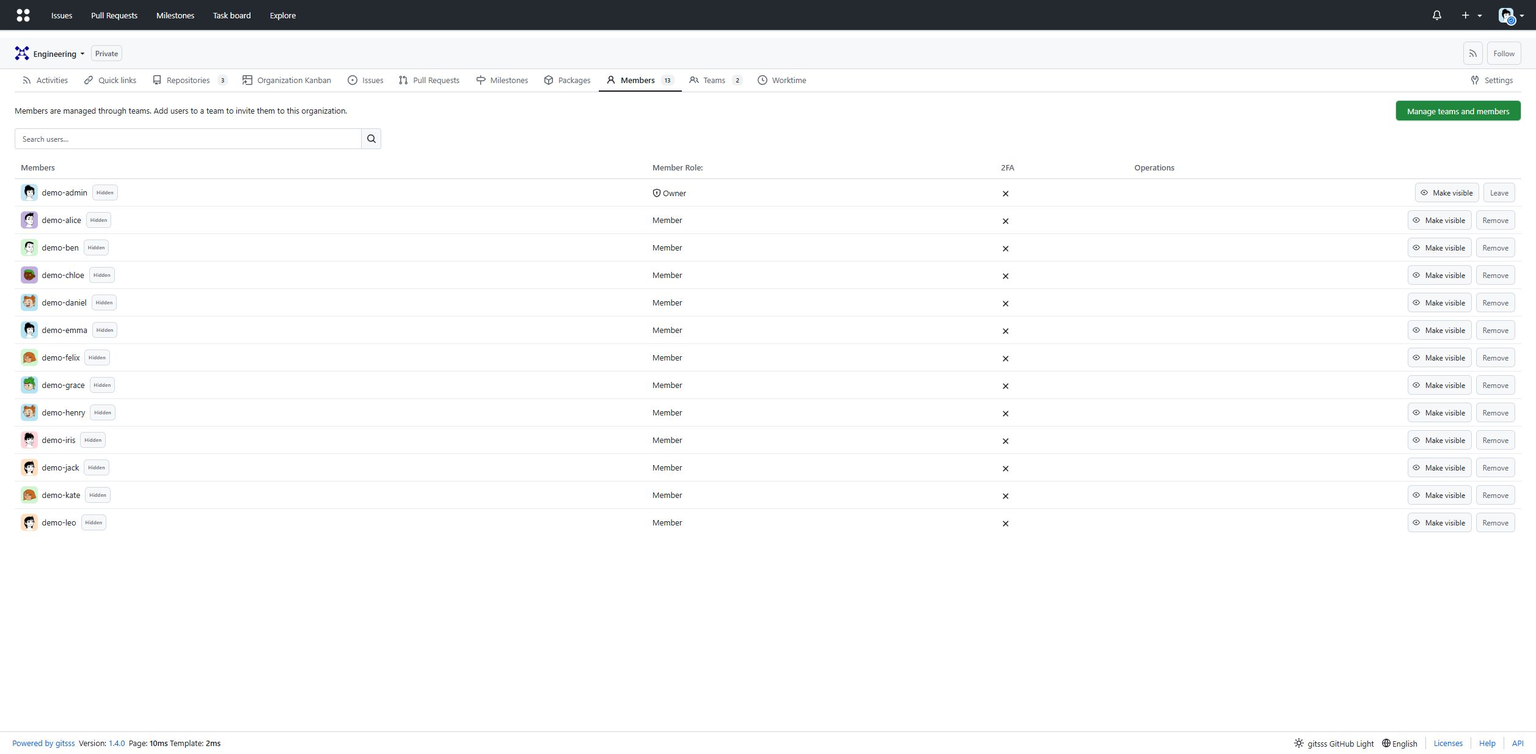
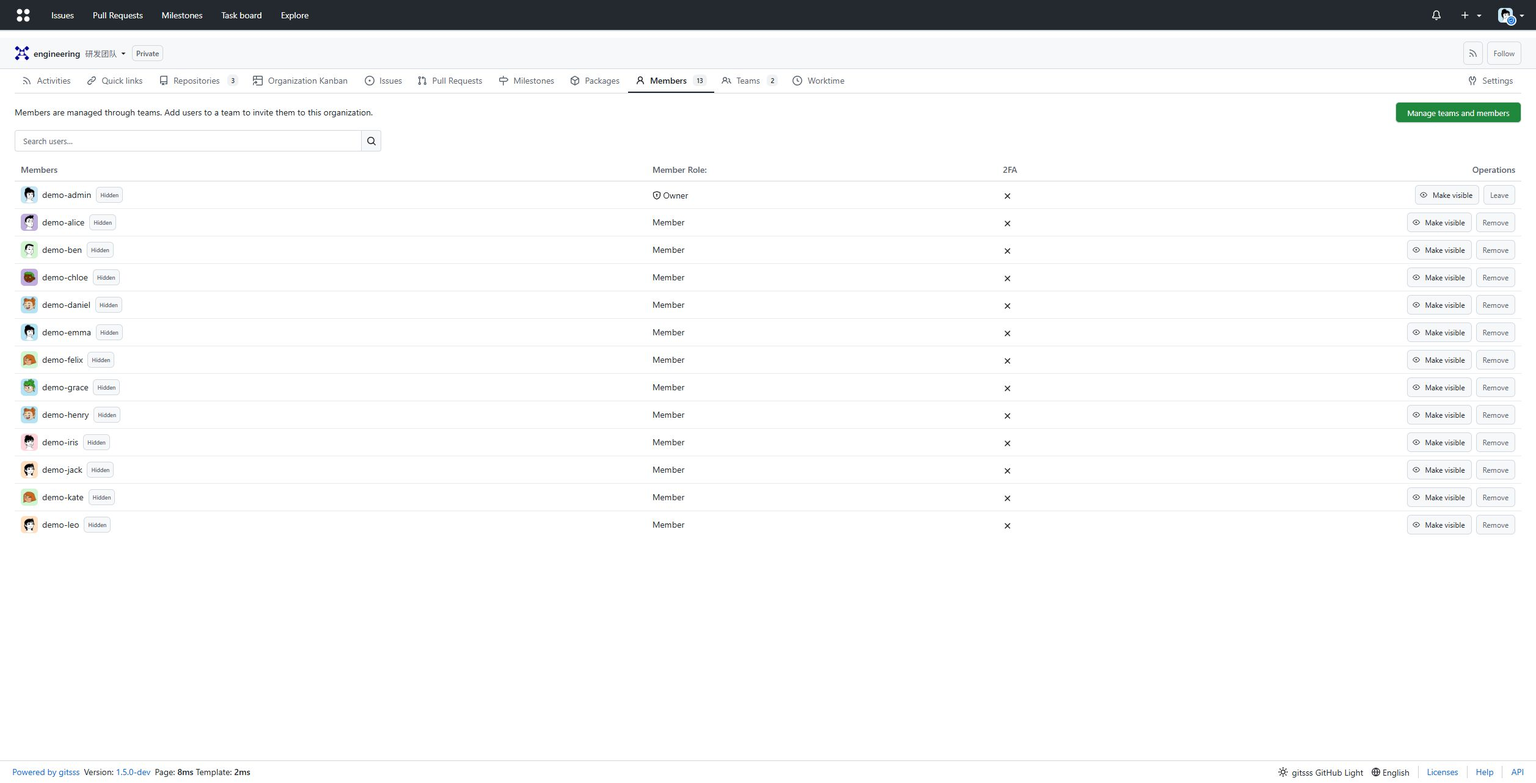
fix(ui): unify desktop workspace and readable administration
Assisted-by: Codex:GPT-6

diff --git a/docs/site/enterprise.html b/docs/site/enterprise.html
@@ -49,4 +49,4 @@
     </aside>
 
     <main class="content"><h1>企业内网与组织</h1><p>GitSSS 服务于企业研发。新安装默认绑定 <code>0.0.0.0:5030</code>，关闭自主注册并要求登录，显式已有设置优先。</p><h2>组织首页</h2><p>首页列出当前用户有权访问的组织；选择组织后进入组织仓库与权限组。个人工作台保留在 <code>/?view=personal</code>。</p><h2>权限组显示名称</h2><p>权限组设置可修改显示名称（包括 Owners），API 字段为 <code>display_name</code>。清空后显示原名称。稳定 ID、name、lower_name、URL 与授权不变；显示名称只用于备注。扩展使用独立的 gitsss_schema_version，保留上游数据库版本 343 与原始数据，不移动任何 Git/LFS 文件。</p><h2>并行迁移与回退</h2><p>先保留 Gitea 3000 与 GitSSS 5030。试运行关闭内置 Runner 与定时任务，不连接生产 Runner；正式切换等待管理员通知。仅 HTTP 导入不能保留密码、SSH/API/Runner 凭据、Actions 历史与 Webhook 状态，使用这些功能的源站必须在最终窗口执行原生数据库与数据接管。两套服务不能共用可写数据库或仓库。</p><p>升级前备份数据库。1.26 基线的旧 GitSSS 无法读取 343 数据库，回退必须同时恢复旧二进制和升级前数据库备份。详细命令与边界见 <a href="../operations/enterprise.md">企业运维说明</a>。</p><h2>原生兼容与运维</h2><p>已合并 Gitea 1.27.1 的 Actions attempt、可复用工作流、任务摘要、团队可见性与分支保护。历史 GitSSS 332 中被占用的上游迁移会自动修复；扩展不再占用上游编号。</p><p>程序内置 <code>/help/</code> 离线 HTML 说明书，默认英文。<code>tools/rehearse-native.py</code> 在独立 SQLite 副本比较所有原始表与列，不复制 Git/LFS，也不启动服务器。<code>tools/verify-git.py</code> 验证真实 Git、LFS、权限与 SSH；Actions 验证只在独立实例运行。<code>tools/agent-ops.py</code> 读取健康和任务状态，dispatch/rerun 需要 --apply。原生 JS Actions 需要 Git、Git LFS、Node.js。</p><p><a href="../operations/upstream-compatibility.md">兼容范围、容量与回退报告</a></p><h2>2026-10-16 验证记录</h2><p>独立数据库快照迁移保留全部 116 张原始表、列与记录 ID（343 → 343），耗时约 1.35 秒；原管理员 Token、组织与权限组可见性、4 个试点仓库、Runner ID 和 Actions 历史 API 均通过。4 个试点匹配 135 个源 refs。真实客户端验证覆盖 HTTP/SSH、LFS、权限、PR 合并和权限组备注；独立 Runner 通过 checkout、shell 与 artifact 上传。增量测试覆盖新增提交与 LFS、源分支删除、目标独立变更拒绝覆盖，以及无变化重跑缓存不增长。生产 Runner 和原 SSH 凭据的实际接管仍在最终窗口验收。</p><p>Windows 本地导入与恢复使用规范 file: URL；原绝对路径及本地导入权限检查保持有效，不移动存储。</p><h2>操作系统 SSH 与 Git SSH</h2><p>服务器的操作系统 SSH 账号、密码与 22 端口保持不变，与 GitSSS 默认 2222 的 Git SSH 监听独立。客户端连续提交多把 Agent 密钥可能耗尽单条连接的认证次数；密码登录可为该连接指定 <code>PreferredAuthentications=password</code> 与 <code>PubkeyAuthentication=no</code>，无需修改服务器策略或账号密码。</p><h2>语言自动识别与清晰文字</h2><p>默认根据浏览器传递的系统语言偏好自动选择界面语言，登录不会将自动识别结果永久保存为英文。页脚和“设置 → 外观”可选择自动或指定语言；已有明确语言偏好的账户可改回自动。页面 lang 与自定义 React 界面同步更新；新增词条提供中英文，其他语言未覆盖词条回退英文。浅色、深色主题分别使用各自的菜单文字与背景色，导航栏白字不会再污染下拉菜单，辅助文字和 Worker 标签更清晰。</p>
-<h2>单个组织全局看板</h2><p>点击组织导航的“组织全局看板”直接进入 <code>/{org}/-/kanban</code>，没有项目列表，也不需要创建仓库。待处理、进行中、已完成三列均可快速记任务，输入 <code>@用户名</code> 指派组织成员，拖动卡片或编辑状态。支持即时搜索、@指派人筛选、详细说明、编辑和删除。最多显示 500 条匹配卡片，超出时显示提示，可缩小范围后搜索存储中的任务。</p><p>仅组织成员与站点管理员可访问；受限访客除组织所有者外不可访问。成员可协作修改卡片，删除限创建者或组织所有者。指派人与所有增删改查均在服务端限定组织。仓库看板仍在 <code>/{org}/{repo}/projects</code>；旧组织项目 URL、字段及 Issue 关联保持兼容。新增卡片仅使用扩展版本 2 的 org_task 表，不创建 Git 仓库，不复制对象；回退旧扩展版本需恢复匹配的数据库备份。</p><h2 id="avatars">桌面布局与内置头像</h2><p>桌面主区域充分利用浏览器宽度，修复 Actions 搜索标签挤压、中文换行及主题对比度；个人设置表单保持适合阅读的宽度。移动端另行规划。设置 → 个人资料提供24 个现成 DiceBear Adventurer/Lorelei 头像，资源完全内置，无需外网；选择后复用现有头像处理与存储，也可上传图片，自动裁剪为方形、缩放并压缩，透明图片保持 PNG。新 GIF 上传使用首帧。作品由 Lisa Wischofsky 创作，Adventurer 为 <a href="https://creativecommons.org/licenses/by/4.0/">CC BY 4.0</a>，Lorelei 为 <a href="https://creativecommons.org/publicdomain/zero/1.0/">CC0</a>，通过 DiceBear 10.6.0 本地渲染。新个人账号自动头像使用稳定的内置选择，已有头像和组织头像保留。</p><h2>并行实例隔离</h2><p>试运行必须使用独立 HOME/USERPROFILE、SSH_ROOT_PATH，并关闭 SSH_CREATE_AUTHORIZED_KEYS_FILE 与 SSH_CREATE_AUTHORIZED_PRINCIPALS_FILE。禁用 SSH 的实例也不得重写系统授权文件。验收前后比较原授权文件哈希，并验证原 Runner 密钥和真实仓库读取。并行实例还必须设置不同的 session COOKIE_NAME、security COOKIE_REMEMBER_NAME 与 i18n COOKIE_NAME，避免同一主机不同端口共享登录 Cookie；最终原生接管恢复原站配置与凭据。试运行新增看板应在最终窗口导出并迁入，未核对前不得覆盖。</p><h2>统一组织工作台与搜索</h2><p>动态、仓库、全局看板及团队管理使用同一组织页头和导航；顶部工单、合并请求、里程碑及看板保留当前组织。切换组织尽量保留当前栏目。组织和团队下拉框支持按显示名称与稳定名称搜索。动态页切换团队时就地更新活动和仓库，保留仓库搜索与筛选，支持浏览器前进、后退。失败时保留当前内容。看板的快速添加、编辑、删除和服务端搜索均在原页面完成，失败保留草稿；原表单及 URL 继续兼容。</p><h2>首页快捷入口</h2><p>独立“快捷入口”Tab 支持多个公共入口与个人入口，名称和 URL 均可修改，添加、编辑、删除后原页保存。公共入口限站点管理员配置，个人入口只归当前登录用户管理。每组最多 32 项，名称最多 120 字符，URL 最多 2048 字节，仅支持 HTTP/HTTPS，禁止夹带账号密码。点击在新标签页打开服务，保留当前工作台。保存失败保留草稿，其他页面已保存时提示冲突，避免静默覆盖。桌面首页左右仅留 16px。</p><p>配置保存在现有 app_state 的 enterprise-home-links 和 personal-home-links-{userID}，不修改数据库结构及 Git/LFS 存储。产品不预置私有地址；在企业部署后配置。最终接管前导出试运行新增入口并核对用户 ID，回退使用匹配数据库备份。POST /home-links 使用正常会话和 CSRF 保护；详细字段见企业运维 Markdown。</p><h2>紧凑桌面与三栏动态</h2><p>动态页左侧是仓库与筛选，中间是活动，右侧是 CI/CD 和已发布公告。贡献记录默认折叠，快捷入口移到独立 Tab。默认界面字号 13px，页头和按钮收紧；成员以单行表格展示，头像为 28px。浏览器缩放由用户控制，不对页面做 transform 缩放。</p><h2>团队自动分配</h2><p>组织所有者进入“设置 → 团队自动分配”，用 Go/RE2 正则匹配仓库名称并选择多个团队。^server- 匹配前缀，-go$ 匹配后缀，(?i) 忽略大小写。可先预览已有仓库，再保存规则；为已有匹配仓库添加团队需要单独点击应用，重复应用不会重复授权。</p><p>启用的规则在新建、API、派生、模板生成、导入及转入组织时自动生效，多条规则取并集，权限沿用现有团队配置。修改备注名称不影响规则；停用、删除规则或重命名仓库不移除既有授权。删除团队会清理规则引用，新同名团队不会继承。Owners 与全部仓库团队沿用原默认权限。最多 32 条规则、每条正则 512 字节、64 个团队；跨组织团队、无效正则、非所有者操作及跨站写入均拒绝。并发编辑使用版本检查。</p><p>配置使用现有 app_state 的 org-repo-team-rules-{orgID}，无数据库结构或 Git/LFS 路径变更。最终接管前导出规则并核对组织与团队 ID；旧二进制忽略规则但保留已授权仓库。详见 <a href="../operations/enterprise.md">企业运维说明</a>。</p><p><img src="assets/screenshots/members.png" alt="Compact organization member table in a demonstration instance, 2026-10-16" style="max-width:100%;height:auto"></p></main></div></body></html>
+<h2>单个组织全局看板</h2><p>点击组织导航的“组织全局看板”直接进入 <code>/{org}/-/kanban</code>，没有项目列表，也不需要创建仓库。待处理、进行中、已完成三列均可快速记任务，输入 <code>@用户名</code> 指派组织成员，拖动卡片或编辑状态。支持即时搜索、@指派人筛选、详细说明、编辑和删除。最多显示 500 条匹配卡片，超出时显示提示，可缩小范围后搜索存储中的任务。</p><p>仅组织成员与站点管理员可访问；受限访客除组织所有者外不可访问。成员可协作修改卡片，删除限创建者或组织所有者。指派人与所有增删改查均在服务端限定组织。仓库看板仍在 <code>/{org}/{repo}/projects</code>；旧组织项目 URL、字段及 Issue 关联保持兼容。新增卡片仅使用扩展版本 2 的 org_task 表，不创建 Git 仓库，不复制对象；回退旧扩展版本需恢复匹配的数据库备份。</p><h2 id="avatars">桌面布局与内置头像</h2><p>桌面主区域充分利用浏览器宽度，修复 Actions 搜索标签挤压、中文换行及主题对比度；个人设置表单保持适合阅读的宽度。移动端另行规划。设置 → 个人资料提供24 个现成 DiceBear Adventurer/Lorelei 头像，资源完全内置，无需外网；选择后复用现有头像处理与存储，也可上传图片，自动裁剪为方形、缩放并压缩，透明图片保持 PNG。新 GIF 上传使用首帧。作品由 Lisa Wischofsky 创作，Adventurer 为 <a href="https://creativecommons.org/licenses/by/4.0/">CC BY 4.0</a>，Lorelei 为 <a href="https://creativecommons.org/publicdomain/zero/1.0/">CC0</a>，通过 DiceBear 10.6.0 本地渲染。新个人账号自动头像使用稳定的内置选择，已有头像和组织头像保留。</p><h2>并行实例隔离</h2><p>试运行必须使用独立 HOME/USERPROFILE、SSH_ROOT_PATH，并关闭 SSH_CREATE_AUTHORIZED_KEYS_FILE 与 SSH_CREATE_AUTHORIZED_PRINCIPALS_FILE。禁用 SSH 的实例也不得重写系统授权文件。验收前后比较原授权文件哈希，并验证原 Runner 密钥和真实仓库读取。并行实例还必须设置不同的 session COOKIE_NAME、security COOKIE_REMEMBER_NAME 与 i18n COOKIE_NAME，避免同一主机不同端口共享登录 Cookie；最终原生接管恢复原站配置与凭据。试运行新增看板应在最终窗口导出并迁入，未核对前不得覆盖。</p><h2>统一组织工作台与搜索</h2><p>动态、仓库、全局看板及团队管理使用同一组织页头和导航；顶部工单、合并请求、里程碑及看板保留当前组织。切换组织尽量保留当前栏目。组织和团队下拉框支持按显示名称与稳定名称搜索。动态页切换团队时就地更新活动和仓库，保留仓库搜索与筛选，支持浏览器前进、后退。失败时保留当前内容。看板的快速添加、编辑、删除和服务端搜索均在原页面完成，失败保留草稿；原表单及 URL 继续兼容。</p><h2>首页快捷入口</h2><p>独立“快捷入口”Tab 支持多个公共入口与个人入口，名称和 URL 均可修改，添加、编辑、删除后原页保存。公共入口限站点管理员配置，个人入口只归当前登录用户管理。每组最多 32 项，名称最多 120 字符，URL 最多 2048 字节，仅支持 HTTP/HTTPS，禁止夹带账号密码。点击在新标签页打开服务，保留当前工作台。保存失败保留草稿，其他页面已保存时提示冲突，避免静默覆盖。桌面首页左右仅留 16px。</p><p>配置保存在现有 app_state 的 enterprise-home-links 和 personal-home-links-{userID}，不修改数据库结构及 Git/LFS 存储。产品不预置私有地址；在企业部署后配置。最终接管前导出试运行新增入口并核对用户 ID，回退使用匹配数据库备份。POST /home-links 使用正常会话和 CSRF 保护；详细字段见企业运维 Markdown。</p><h2>紧凑桌面与三栏动态</h2><p>动态页左侧是仓库与筛选，中间是活动，右侧是 CI/CD 和已发布公告。贡献记录默认折叠，快捷入口移到独立 Tab。默认界面字号 14px，页头和按钮收紧；成员以单行表格展示，头像为 28px。浏览器缩放由用户控制，不对页面做 transform 缩放。</p><h2>团队自动分配</h2><p>组织所有者进入“设置 → 团队自动分配”，用 Go/RE2 正则匹配仓库名称并选择多个团队。^server- 匹配前缀，-go$ 匹配后缀，(?i) 忽略大小写。可先预览已有仓库，再保存规则；为已有匹配仓库添加团队需要单独点击应用，重复应用不会重复授权。</p><p>启用的规则在新建、API、派生、模板生成、导入及转入组织时自动生效，多条规则取并集，权限沿用现有团队配置。修改备注名称不影响规则；停用、删除规则或重命名仓库不移除既有授权。删除团队会清理规则引用，新同名团队不会继承。Owners 与全部仓库团队沿用原默认权限。最多 32 条规则、每条正则 512 字节、64 个团队；跨组织团队、无效正则、非所有者操作及跨站写入均拒绝。并发编辑使用版本检查。</p><p>配置使用现有 app_state 的 org-repo-team-rules-{orgID}，无数据库结构或 Git/LFS 路径变更。最终接管前导出规则并核对组织与团队 ID；旧二进制忽略规则但保留已授权仓库。详见 <a href="../operations/enterprise.md">企业运维说明</a>。</p><p><img src="assets/screenshots/members.png" alt="Compact organization member table in a demonstration instance, 2026-10-16" style="max-width:100%;height:auto"></p><h2>统一桌面界面与组织备注</h2><p>组织同时显示稳定英文标识和不同的 full_name 备注，首页和组织切换器都能查看；首页支持按二者搜索，Escape 清空，无匹配时明确提示。备注在组织设置修改，不改变组织 ID、仓库路径、克隆地址和团队权限。试运行备注在接管前按组织名称导出和映射。</p><p>仓库代码、文件、工单、合并请求、Actions、看板、百科、发布和设置统一使用完整页面及导航，不再挂载额外的 API 界面层，也没有经典/新版切换。原 URL 和 classic=1 参数仍可访问同一页面，API 身份与权限要求保持不变。1200px 起显示可收起、可滚动的桌面导航，图标模式保留可访问名称。后台正文和表单为 14px，分组至少 13px、标题 16px，通过间距保持紧凑。回退替换旧二进制及其内置资源，不移动 Git/LFS 或数据库。</p><p>后台默认展开当前导航分组，其余分组可点击展开，导航栏独立滚动，不再把整页拉长。</p><p><img src="assets/screenshots/admin.png" alt="Readable administration in an isolated demonstration instance, 2026-10-16" style="max-width:100%;height:auto"></p></main></div></body></html>

diff --git a/docs/site/en/index.html b/docs/site/en/index.html
@@ -159,7 +159,7 @@ python3 tools/verify-git.py --url http://gitsss.example.internal:5030 --token-fi
 
       <hr>
       <p style="font-size:14px; color:var(--color-fg-muted);">GitSSS is licensed under <a href="https://github.com/neko233-com/gitsss/blob/main/LICENSE">MIT</a>. See the <a href="https://github.com/neko233-com/gitsss/blob/main/README.md">English README</a> or <a href="https://github.com/neko233-com/gitsss/blob/main/README_ZH.md">Chinese README</a>.</p>
-    <h2>Rehearsal evidence: 2026-10-16</h2><p>An independent SQLite snapshot retained all 116 original tables, columns and row IDs (343 to 343), taking about 1.35 seconds. Runtime checks accepted the original admin token, organization/team visibility, four pilot repositories, runner IDs and Actions metadata. Four pilots matched 135 source refs. Disposable real-client checks covered HTTP, SSH, LFS, permissions, pull-request merging and team labels; an isolated native runner completed checkout, shell and artifact upload. Delta checks covered new Git/LFS data, source branch deletion, refusal of independent destination changes and unchanged reruns without cache growth. Production runners and original SSH credentials remain cutover-window checks. Windows local restore paths use proper file: URLs while retaining permission checks and storage locations.</p><h2>Language, readable themes and organization Kanban</h2><p>The UI automatically follows the system/browser language supplied in Accept-Language. Login does not persist an automatically detected language as an account preference. The footer and Appearance settings offer Automatic and manual choices. Custom React views follow the page language with Chinese/English strings and English fallback. Light/dark dropdowns use their own text colors; secondary text and Worker captions are more readable. Organization cards open /{org}/-/kanban directly: one shared board, quick tasks, @member assignment, text search, assignee filters and drag-to-change status. No project creation or repository is required. Repository boards and legacy owner projects remain compatible. Only organization members and administrators can access shared cards; creator/owner deletion and same-organization assignment are enforced by the server. Up to 500 matching cards are rendered with a visible limit notice and server search. Extension schema 2 adds org_task without copying Git objects. Preserve trial cards and map organization/user IDs at final takeover; rollback to older binaries needs its database backup. Desktop layouts use the available width; Actions search no longer squeezes an exposed label into its input. Profile settings provide 24 locally embedded DiceBear Adventurer/Lorelei avatars; existing avatars are preserved. Custom uploads are automatically square-cropped, resized and compressed as suitable PNG/JPEG. Transparency stays PNG; GIF uploads use the first frame. Artwork: Lisa Wischofsky, Adventurer CC BY 4.0 and Lorelei CC0, locally rendered using DiceBear 10.6.0.</p><h2>Parallel instance isolation</h2><p>Use independent HOME/USERPROFILE and SSH_ROOT_PATH, disable both SSH_CREATE_AUTHORIZED_*_FILE flags, and compare the source authorization file hash before/after acceptance. Disabled SSH must never rewrite system authorization files. Configure distinct session COOKIE_NAME, security COOKIE_REMEMBER_NAME and i18n COOKIE_NAME on parallel instances to avoid cross-port login-cookie collisions. Retain original settings for final native takeover and export any new trial boards before that window.</p><p><code>tools/verify-enterprise.py</code> verifies shared-card permissions and avatar selection/upload with disposable private organizations and accounts, cleaning its own fixtures. Run it only against GitSSS evaluation instances.</p><h2>One organization workspace</h2><p>Activity, repositories, board and teams share the same compact header and navigation. Organization switching retains the workspace section, and organization/team menus support display-name and stable-name search. Team changes update activity and repositories in place while preserving repository search and filters, with Back/Forward support. Board creation, editing, deletion and server search stay on the same page; failed requests preserve drafts and current contents. Existing URLs and ordinary form submissions remain compatible.</p><h2>Homepage quick links</h2><p>A dedicated Quick links tab offers administrator-managed shared links and per-user personal links. Add, edit and remove multiple entries in place; destinations open in a new tab. Each list supports 32 links, a 120-character name and an HTTP/HTTPS URL up to 2048 bytes. Embedded credentials and other schemes are rejected. Failed saves preserve drafts; stale editors receive a conflict. Desktop dashboards use 16px side gutters.</p><p>Links use existing app-state keys enterprise-home-links and personal-home-links-{userID}; no schema or Git/LFS paths change. Private destinations are configured per installation. Export trial links before native takeover and map personal user IDs. See the <a href="../../operations/enterprise.md">enterprise operations guide</a> for session/CSRF-protected POST /home-links fields and rollback.</p><h2>Compact desktop workspace and automatic teams</h2><p>Activity has repositories on the left, the feed in the center, and CI/CD with published notices on the right. Contribution history starts collapsed; Quick links has its own tab. The default UI uses 13px text, compact headers/buttons and single-line member rows with 28px avatars, without changing browser zoom.</p><p>Organization owners open Settings → Automatic team assignment. Match repository names with Go/RE2 expressions such as ^server- or (?i)-go$, choose teams and preview existing matches. Enabled rules apply in creation/import/fork/template and organization transfer transactions. Matching rules are unioned using existing team permissions. Applying to existing repositories is explicit and repeatable. Disabling/deleting rules or renaming repositories never revokes existing grants. Stable team IDs survive display-name changes; team deletion removes references. Owners/all-repository teams keep their default access.</p><p>Limits: 32 rules, 512 bytes per expression, 64 teams per rule. Owner/CSRF checks, same-organization validation and stale revision checks are enforced. Rules use app_state key org-repo-team-rules-{orgID}; no schema or Git/LFS path changes. Export and map organization/team IDs before native takeover. Older binaries ignore rules and retain grants. See the <a href="../../operations/enterprise.md">operations guide</a>.</p><h2>Native Express233 upload</h2><p>Use the embedded <code>gitsss/express233-upload@v1</code> action with Node.js 24. Set server/project-id from Actions variables, token from a Secret, a unique version and workspace-relative path. No external action or npm installation is needed. It creates a fresh draft, streams files and produces a SHA256 input manifest. Existing versions are refused. Publication defaults to false; explicit publish=true may trigger receiver deployment hooks. Only failed file uploads retry; redirects and URL credentials are refused, TLS stays enabled and receiver error bodies are omitted. See <a href="../actions.html#express233">the HTML example</a> and <a href="../../operations/express233-upload.md">complete usage and recovery</a>.</p><p>For public releases, keep installation-specific identifiers outside Git and run the local <a href="../../operations/public-source.md">public-source hygiene check</a>. Historical rewrites require a verified private backup and explicit authorization; GitHub read-only PR refs/caches and old release binaries are separate cleanup boundaries.</p><p><img src="../assets/screenshots/members.png" alt="Compact organization member table in a demonstration instance, 2026-10-16" style="max-width:100%;height:auto"></p></main>
+    <h2>Rehearsal evidence: 2026-10-16</h2><p>An independent SQLite snapshot retained all 116 original tables, columns and row IDs (343 to 343), taking about 1.35 seconds. Runtime checks accepted the original admin token, organization/team visibility, four pilot repositories, runner IDs and Actions metadata. Four pilots matched 135 source refs. Disposable real-client checks covered HTTP, SSH, LFS, permissions, pull-request merging and team labels; an isolated native runner completed checkout, shell and artifact upload. Delta checks covered new Git/LFS data, source branch deletion, refusal of independent destination changes and unchanged reruns without cache growth. Production runners and original SSH credentials remain cutover-window checks. Windows local restore paths use proper file: URLs while retaining permission checks and storage locations.</p><h2>Language, readable themes and organization Kanban</h2><p>The UI automatically follows the system/browser language supplied in Accept-Language. Login does not persist an automatically detected language as an account preference. The footer and Appearance settings offer Automatic and manual choices. Custom React views follow the page language with Chinese/English strings and English fallback. Light/dark dropdowns use their own text colors; secondary text and Worker captions are more readable. Organization cards open /{org}/-/kanban directly: one shared board, quick tasks, @member assignment, text search, assignee filters and drag-to-change status. No project creation or repository is required. Repository boards and legacy owner projects remain compatible. Only organization members and administrators can access shared cards; creator/owner deletion and same-organization assignment are enforced by the server. Up to 500 matching cards are rendered with a visible limit notice and server search. Extension schema 2 adds org_task without copying Git objects. Preserve trial cards and map organization/user IDs at final takeover; rollback to older binaries needs its database backup. Desktop layouts use the available width; Actions search no longer squeezes an exposed label into its input. Profile settings provide 24 locally embedded DiceBear Adventurer/Lorelei avatars; existing avatars are preserved. Custom uploads are automatically square-cropped, resized and compressed as suitable PNG/JPEG. Transparency stays PNG; GIF uploads use the first frame. Artwork: Lisa Wischofsky, Adventurer CC BY 4.0 and Lorelei CC0, locally rendered using DiceBear 10.6.0.</p><h2>Parallel instance isolation</h2><p>Use independent HOME/USERPROFILE and SSH_ROOT_PATH, disable both SSH_CREATE_AUTHORIZED_*_FILE flags, and compare the source authorization file hash before/after acceptance. Disabled SSH must never rewrite system authorization files. Configure distinct session COOKIE_NAME, security COOKIE_REMEMBER_NAME and i18n COOKIE_NAME on parallel instances to avoid cross-port login-cookie collisions. Retain original settings for final native takeover and export any new trial boards before that window.</p><p><code>tools/verify-enterprise.py</code> verifies shared-card permissions and avatar selection/upload with disposable private organizations and accounts, cleaning its own fixtures. Run it only against GitSSS evaluation instances.</p><h2>One organization workspace</h2><p>Activity, repositories, board and teams share the same compact header and navigation. Organization switching retains the workspace section, and organization/team menus support display-name and stable-name search. Team changes update activity and repositories in place while preserving repository search and filters, with Back/Forward support. Board creation, editing, deletion and server search stay on the same page; failed requests preserve drafts and current contents. Existing URLs and ordinary form submissions remain compatible.</p><h2>Homepage quick links</h2><p>A dedicated Quick links tab offers administrator-managed shared links and per-user personal links. Add, edit and remove multiple entries in place; destinations open in a new tab. Each list supports 32 links, a 120-character name and an HTTP/HTTPS URL up to 2048 bytes. Embedded credentials and other schemes are rejected. Failed saves preserve drafts; stale editors receive a conflict. Desktop dashboards use 16px side gutters.</p><p>Links use existing app-state keys enterprise-home-links and personal-home-links-{userID}; no schema or Git/LFS paths change. Private destinations are configured per installation. Export trial links before native takeover and map personal user IDs. See the <a href="../../operations/enterprise.md">enterprise operations guide</a> for session/CSRF-protected POST /home-links fields and rollback.</p><h2>Compact desktop workspace and automatic teams</h2><p>Activity has repositories on the left, the feed in the center, and CI/CD with published notices on the right. Contribution history starts collapsed; Quick links has its own tab. The default UI uses 14px text, compact headers/buttons and single-line member rows with 28px avatars, without changing browser zoom.</p><p>Organization owners open Settings → Automatic team assignment. Match repository names with Go/RE2 expressions such as ^server- or (?i)-go$, choose teams and preview existing matches. Enabled rules apply in creation/import/fork/template and organization transfer transactions. Matching rules are unioned using existing team permissions. Applying to existing repositories is explicit and repeatable. Disabling/deleting rules or renaming repositories never revokes existing grants. Stable team IDs survive display-name changes; team deletion removes references. Owners/all-repository teams keep their default access.</p><p>Limits: 32 rules, 512 bytes per expression, 64 teams per rule. Owner/CSRF checks, same-organization validation and stale revision checks are enforced. Rules use app_state key org-repo-team-rules-{orgID}; no schema or Git/LFS path changes. Export and map organization/team IDs before native takeover. Older binaries ignore rules and retain grants. See the <a href="../../operations/enterprise.md">operations guide</a>.</p><h2>Native Express233 upload</h2><p>Use the embedded <code>gitsss/express233-upload@v1</code> action with Node.js 24. Set server/project-id from Actions variables, token from a Secret, a unique version and workspace-relative path. No external action or npm installation is needed. It creates a fresh draft, streams files and produces a SHA256 input manifest. Existing versions are refused. Publication defaults to false; explicit publish=true may trigger receiver deployment hooks. Only failed file uploads retry; redirects and URL credentials are refused, TLS stays enabled and receiver error bodies are omitted. See <a href="../actions.html#express233">the HTML example</a> and <a href="../../operations/express233-upload.md">complete usage and recovery</a>.</p><p>For public releases, keep installation-specific identifiers outside Git and run the local <a href="../../operations/public-source.md">public-source hygiene check</a>. Historical rewrites require a verified private backup and explicit authorization; GitHub read-only PR refs/caches and old release binaries are separate cleanup boundaries.</p><p><img src="../assets/screenshots/members.png" alt="Compact organization member table in a demonstration instance, 2026-10-16" style="max-width:100%;height:auto"></p><h2>One desktop interface and organization notes</h2><p>Organizations show the stable identifier and a distinct full_name note together. The homepage directory searches both, Escape clears the filter, and empty results have an explicit message. Edit the note in organization settings without changing IDs, clone URLs, repository paths or team access. Export trial organization notes and map them by name before native takeover.</p><p>Repository code, files, issues, pull requests, Actions, boards, wiki, releases and settings share the complete server-rendered interface. The experimental API overlay no longer hides it and there is no classic/new switch. Existing URLs and classic=1 show the same page; API authorization is unchanged. From 1200px the desktop rail can scroll or collapse while retaining accessible link labels. Administration uses 14px text/forms, 13px section labels and 16px headings. Roll back the binary and its embedded assets; Git/LFS and database paths remain unchanged.</p><p>The current administration group starts expanded; other groups can be opened on demand and the navigation rail scrolls independently.</p><p><img src="../assets/screenshots/admin.png" alt="Readable administration in an isolated demonstration instance, 2026-10-16" style="max-width:100%;height:auto"></p></main>
   </div>
 </body>
 </html>

diff --git a/web_src/css/admin.css b/web_src/css/admin.css
@@ -59,7 +59,7 @@
   justify-content: space-between;
   gap: 1rem;
   color: var(--color-text-light);
-  font-size: 0.875rem;
+  font-size: 13px;
 }
 
 .storage-capacity-progress-label strong {
@@ -73,7 +73,7 @@
 
 .storage-capacity-progress-detail {
   color: var(--color-text-light-2);
-  font-size: 0.8125rem;
+  font-size: 13px;
 }
 
 .storage-capacity-chart {
@@ -126,8 +126,8 @@
 .admin-sidebar-menu {
   overflow: hidden;
   border: 1px solid var(--color-light-border);
-  border-radius: 10px;
-  box-shadow: 0 8px 24px var(--color-shadow);
+  border-radius: 6px;
+  box-shadow: none;
 }
 
 .admin-sidebar-heading {
@@ -135,7 +135,7 @@
   border-bottom: 1px solid var(--color-light-border) !important;
   background: var(--color-menu) !important;
   color: var(--color-text) !important;
-  font-size: 0.95rem;
+  font-size: 15px;
   font-weight: var(--font-weight-semibold) !important;
 }
 
@@ -150,11 +150,10 @@
 
 .admin-sidebar-menu details > summary {
   padding: 0.72rem 1rem;
-  color: var(--color-text-light);
-  font-size: 0.78rem;
+  color: var(--color-text-light-2);
+  font-size: 13px;
   font-weight: var(--font-weight-semibold);
-  letter-spacing: 0.04em;
-  text-transform: uppercase;
+  letter-spacing: normal;
 }
 
 .admin-sidebar-menu details > summary:hover,
@@ -171,7 +170,24 @@
 .admin-sidebar-menu details > .menu .item,
 .admin-sidebar-menu > .item:not(.admin-sidebar-heading) {
   border-radius: 6px;
+  font-size: 14px;
+  line-height: 20px;
+  padding: 8px 10px;
 }
+
+.page-content.admin .flex-container-nav { flex: 0 0 230px; }
+.page-content.admin .admin-sidebar-nav { position: sticky; top: 64px; align-self: flex-start; max-height: calc(100vh - 80px); overflow-y: auto; overscroll-behavior: contain; }
+.page-content.admin .ui.menu.admin-sidebar-menu .menu .item { padding: 6px 10px; font-size: 14px; line-height: 20px; }
+.page-content.admin .flex-container-main { font-size: 14px; line-height: 1.6; }
+.page-content.admin .ui.header { font-size: 16px; }
+.page-content.admin .ui.form input,
+.page-content.admin .ui.form select,
+.page-content.admin .ui.form textarea,
+.page-content.admin .ui.form label,
+.page-content.admin .ui.table { font-size: 14px; }
+.page-content.admin .ui.form .help,
+.page-content.admin .muted,
+.page-content.admin .ui.button { font-size: 13px; }
 
 .admin-sidebar-menu details > .menu .item.active,
 .admin-sidebar-menu > .item.active {

diff --git a/web_src/js/features/repo-sidebar.ts b/web_src/js/features/repo-sidebar.ts
@@ -6,7 +6,9 @@ const sidebarStorageKey = 'gitsss-repo-sidebar-collapsed';
 function applySidebarState(toggle: HTMLButtonElement, collapsed: boolean): void {
   document.body.classList.toggle('repo-sidebar-collapsed', collapsed);
   toggle.setAttribute('aria-expanded', String(!collapsed));
-  toggle.setAttribute('title', collapsed ? toggle.getAttribute('data-expand-title')! : toggle.getAttribute('data-collapse-title')!);
+  const label = collapsed ? toggle.getAttribute('data-expand-title')! : toggle.getAttribute('data-collapse-title')!;
+  toggle.setAttribute('title', label);
+  toggle.setAttribute('aria-label', label);
   toggle.innerHTML = collapsed ? html`<svg class="svg octicon-chevron-right" width="16" height="16" aria-hidden="true"><path d="m6.22 3.97 4.03 4.03-4.03 4.03a.75.75 0 0 0 1.06 1.06l4.56-4.56a.75.75 0 0 0 0-1.06L7.28 2.91a.75.75 0 0 0-1.06 1.06Z"></path></svg>` : html`<svg class="svg octicon-chevron-left" width="16" height="16" aria-hidden="true"><path d="m9.78 3.97-4.03 4.03 4.03 4.03a.75.75 0 0 1-1.06 1.06l-4.56-4.56a.75.75 0 0 1 0-1.06l4.56-4.56a.75.75 0 0 1 1.06 1.06Z"></path></svg>`;
 }
 
@@ -14,6 +16,12 @@ export function initRepoSidebar(): void {
   const sidebar = document.querySelector<HTMLElement>('.repo-sidebar');
   const toggle = sidebar ? sidebar.querySelector<HTMLButtonElement>('[data-repo-sidebar-toggle]') : null;
   if (!sidebar || !toggle) return;
+  for (const link of sidebar.querySelectorAll<HTMLAnchorElement>('.repo-sidebar-link')) {
+    const label = link.textContent.trim();
+    link.setAttribute('aria-label', label);
+    link.title = label;
+    if (link.classList.contains('active')) link.setAttribute('aria-current', 'page');
+  }
   toggle.setAttribute('data-collapse-title', toggle.getAttribute('title')!);
   let collapsed = false;
   try {
@@ -36,7 +44,7 @@ export function initRepoSidebar(): void {
   const mobileCloseButtons = document.querySelectorAll<HTMLButtonElement>('[data-repo-sidebar-mobile-close]');
   if (!mobileOpen || mobileCloseButtons.length === 0) return;
 
-  const desktopQuery = window.matchMedia('(min-width: 1440px)');
+  const desktopQuery = window.matchMedia('(min-width: 1200px)');
   const setMobileState = (open: boolean): void => {
     const isDesktop = desktopQuery.matches;
     const active = open && !isDesktop;

diff --git a/web_src/css/repo/header.css b/web_src/css/repo/header.css
@@ -1,5 +1,5 @@
 .repository .secondary-nav {
-  padding-top: 12px;
+  padding-top: 6px;
 }
 
 .repository .secondary-nav .fork-flag {
@@ -11,17 +11,22 @@
   display: flex;
   flex-flow: row wrap;
   justify-content: space-between;
-  gap: 0.5rem;
-  margin-bottom: 4px;
+  align-items: center;
+  gap: 8px;
+  margin-bottom: 8px;
+  padding-top: 0;
 }
+
+.repo-header > .flex-item { flex: 1; min-width: 0; }
+.repo-header .flex-item-title { justify-content: flex-start; flex-wrap: wrap; gap: 4px; font-size: 16px; line-height: 24px; }
 
 .repo-header .flex-item {
   padding: 0;
 }
 
 .repo-header .flex-item-main {
-  flex: 0;
-  flex-basis: unset;
+  flex: 1;
+  min-width: 0;
 }
 
 .repo-header .flex-item-trailing {
@@ -38,7 +43,7 @@
   display: none;
 }
 
-@media (max-width: 1439.98px) {
+@media (max-width: 1199.98px) {
   .repo-sidebar-mobile-toggle {
     display: inline-flex;
     align-items: center;
@@ -169,9 +174,9 @@
   }
 }
 
-@media (min-width: 1440px) {
+@media (min-width: 1200px) {
   .page-content.repository {
-    padding-left: 248px;
+    padding-left: 224px;
   }
 
   .repository .repo-primary-nav {
@@ -181,15 +186,17 @@
   .repository .repo-sidebar {
     position: fixed;
     z-index: 10;
-    top: 104px;
+    top: 64px;
+    max-height: calc(100vh - 80px);
+    overflow-y: auto;
     left: 16px;
     display: block;
-    width: 216px;
-    padding: 0.75rem;
+    width: 196px;
+    padding: 8px;
     border: 1px solid var(--color-secondary);
-    border-radius: 10px;
-    background: var(--color-box-body);
-    box-shadow: 0 10px 30px rgb(31 35 40 / 8%);
+    border-radius: 6px;
+    background: var(--color-menu);
+    box-shadow: none;
   }
 
   .repo-sidebar-title {
@@ -259,10 +266,6 @@
     text-decoration: none;
   }
 
-  .repo-sidebar-link:hover {
-    transform: translateX(2px);
-  }
-
   .repo-sidebar-divider {
     height: 1px;
     margin: 0.45rem 0;
@@ -270,7 +273,7 @@
   }
 }
 
-@media (min-width: 1440px) {
+@media (min-width: 1200px) {
   body.repo-sidebar-collapsed .page-content.repository {
     padding-left: 80px;
   }

diff --git a/web_src/css/org.css b/web_src/css/org.css
@@ -7,6 +7,18 @@
 .org-workspace-header .ui.dropdown > .text { display: inline-flex; align-items: center; gap: .5rem; }
 .org-workspace-header .ui.dropdown .menu { min-width: 18rem; }
 .org-workspace-header .ui.button { padding: 7px 10px; font-size: 12px; }
+.org-identity { display: inline-flex; align-items: baseline; flex-wrap: wrap; gap: 4px 8px; min-width: 0; }
+.org-identity-name { font-weight: var(--font-weight-semibold); }
+.org-identity-note { color: var(--color-text-light-2); font-size: 13px; font-weight: var(--font-weight-normal); }
+.org-directory.ui.cards { display: grid; grid-template-columns: repeat(auto-fill, minmax(280px, 1fr)); gap: 12px; margin: 0; }
+.org-directory.ui.cards > .card { width: auto; margin: 0; box-shadow: none; }
+.org-directory.ui.cards > .card[hidden] { display: none; }
+.org-directory .content > div { min-width: 0; }
+.org-directory .org-identity { flex-direction: column; gap: 2px; }
+.org-directory-search { width: min(100%, 420px); margin: 0 0 12px; }
+.org-directory-search.ui.icon.input > .svg { position: absolute; left: 10px; top: 10px; color: var(--color-text-light-2); }
+.org-directory-search.ui.input > input { padding-left: 32px; }
+.org-directory-search:has(:focus-visible) { outline: 2px solid var(--color-primary-alpha-30); outline-offset: 2px; }
 .organization .ui.secondary.pointing.menu .item,
 .dashboard .ui.secondary.pointing.menu .item { padding-top: 9px !important; padding-bottom: 9px !important; }
 .org-members-table.ui.table { margin-top: 8px; }

diff --git a/web_src/js/features/org-directory.test.ts b/web_src/js/features/org-directory.test.ts
@@ -1,0 +1,27 @@
+import {initOrgDirectory} from './org-directory.ts';
+
+describe('organization directory', () => {
+  beforeEach(() => {
+    document.body.innerHTML = '<input data-org-directory-search><div data-org-directory-item data-search="engineering 研发团队"></div><div data-org-directory-item data-search="design 设计团队"></div><p data-org-directory-empty hidden>No results</p>';
+    initOrgDirectory();
+  });
+
+  test.each(['ENGINEERING', '研发', 'ｅｎｇｉｎｅｅｒｉｎｇ'])('searches identifier and display note: %s', (query) => {
+    const input = document.querySelector<HTMLInputElement>('input')!;
+    input.value = query;
+    input.dispatchEvent(new Event('input'));
+    expect(Array.from(document.querySelectorAll<HTMLElement>('[data-org-directory-item]'), (card) => card.hidden)).toEqual([false, true]);
+  });
+
+  test('shows empty results and Escape restores every organization', () => {
+    const input = document.querySelector<HTMLInputElement>('input')!;
+    const empty = document.querySelector<HTMLElement>('[data-org-directory-empty]')!;
+    input.value = 'missing';
+    input.dispatchEvent(new Event('input'));
+    expect(empty.hidden).toBe(false);
+    input.dispatchEvent(new KeyboardEvent('keydown', {key: 'Escape'}));
+    expect(input.value).toBe('');
+    expect(empty.hidden).toBe(true);
+    expect(Array.from(document.querySelectorAll<HTMLElement>('[data-org-directory-item]')).every((card) => !card.hidden)).toBe(true);
+  });
+});

diff --git a/web_src/js/index.ts b/web_src/js/index.ts
@@ -13,9 +13,11 @@ import {initImageDiff} from './features/imagediff.ts';
 import {initRepoMigration} from './features/repo-migration.ts';
 import {initRepoProjectsView} from './features/repo-projects.ts';
 import {initRepoSidebar} from './features/repo-sidebar.ts';
+import {initOrgDirectory} from './features/org-directory.ts';
 import {initTableSort} from './features/tablesort.ts';
 import {initAdminUserListSearchForm} from './features/admin/users.ts';
 import {initAdminConfigs} from './features/admin/config.ts';
+import {initAdminSidebar} from './features/admin/sidebar.ts';
 import {initAdminStorageAwareness} from './features/admin/storage-awareness.ts';
 import {initMarkupAnchors} from './markup/anchors.ts';
 import {initNotificationCount} from './features/notification.ts';
@@ -146,6 +148,8 @@ const initPerformanceTracer = callInitFunctions([
   initRepoMigrationStatusChecker,
   initRepoProjectsView,
   initRepoSidebar,
+  initOrgDirectory,
+  initAdminSidebar,
   initRepoPullRequestReview,
   initRepoReleaseNew,
   initRepoTopicBar,

diff --git a/web_src/js/features/repo-sidebar.test.ts b/web_src/js/features/repo-sidebar.test.ts
@@ -9,7 +9,7 @@ const sidebarHTML = `
       <button type="button" data-repo-sidebar-toggle data-expand-title="Expand" title="Collapse"></button>
       <button type="button" data-repo-sidebar-mobile-close aria-label="Close repository navigation"></button>
     </div>
-    <nav><a href="/code">Code</a></nav>
+    <nav><a class="repo-sidebar-link active" href="/code"><span class="repo-sidebar-label">Code</span></a></nav>
   </aside>
 `;
 
@@ -50,5 +50,10 @@ describe('repository sidebar', () => {
     toggle.click();
     expect(document.body.classList.contains('repo-sidebar-collapsed')).toBe(true);
     expect(localUserSettings.getBoolean('gitsss-repo-sidebar-collapsed')).toBe(true);
+    expect(toggle.getAttribute('aria-label')).toBe('Expand');
+    const link = document.querySelector<HTMLAnchorElement>('.repo-sidebar-link')!;
+    expect(link.getAttribute('aria-label')).toBe('Code');
+    expect(link.getAttribute('aria-current')).toBe('page');
+    expect(link.title).toBe('Code');
   });
 });

diff --git a/web_src/js/features/org-directory.ts b/web_src/js/features/org-directory.ts
@@ -1,0 +1,24 @@
+export function initOrgDirectory(): void {
+  const search = document.querySelector<HTMLInputElement>('[data-org-directory-search]');
+  const empty = document.querySelector<HTMLElement>('[data-org-directory-empty]');
+  if (!search || !empty) return;
+  const cards = Array.from(document.querySelectorAll<HTMLElement>('[data-org-directory-item]'));
+  const normalize = (value: string) => value.normalize('NFKC').toLowerCase().trim();
+  const update = () => {
+    const query = normalize(search.value);
+    let count = 0;
+    for (const card of cards) {
+      card.hidden = !normalize(card.getAttribute('data-search')!).includes(query);
+      if (!card.hidden) count++;
+    }
+    empty.hidden = count !== 0;
+  };
+  search.addEventListener('input', update);
+  search.addEventListener('keydown', (event) => {
+    if (event.key === 'Escape') {
+      search.value = '';
+      update();
+    }
+  });
+  update();
+}

diff --git a/web_src/js/features/admin/sidebar.test.ts b/web_src/js/features/admin/sidebar.test.ts
@@ -1,0 +1,12 @@
+import {initAdminSidebar} from './sidebar.ts';
+
+test('opens the current administration section while other sections remain expandable', () => {
+  document.body.innerHTML = '<nav class="admin-sidebar-menu"><details open><summary>Maintenance</summary><a class="item">Dashboard</a></details><details open><summary>Integrations</summary><a class="item active">Webhooks</a></details></nav>';
+  initAdminSidebar();
+  const groups = document.querySelectorAll<HTMLDetailsElement>('details');
+  expect(groups[0].open).toBe(false);
+  expect(groups[1].open).toBe(true);
+  expect(document.querySelector('.item.active')!.getAttribute('aria-current')).toBe('page');
+  groups[0].open = true;
+  expect(groups[0].open).toBe(true);
+});

diff --git a/web_src/js/features/admin/sidebar.ts b/web_src/js/features/admin/sidebar.ts
@@ -1,0 +1,6 @@
+export function initAdminSidebar(): void {
+  for (const link of document.querySelectorAll<HTMLAnchorElement>('.admin-sidebar-menu .item.active')) link.setAttribute('aria-current', 'page');
+  for (const group of document.querySelectorAll<HTMLDetailsElement>('.admin-sidebar-menu > details')) {
+    group.open = group.querySelector('.item.active') !== null;
+  }
+}
